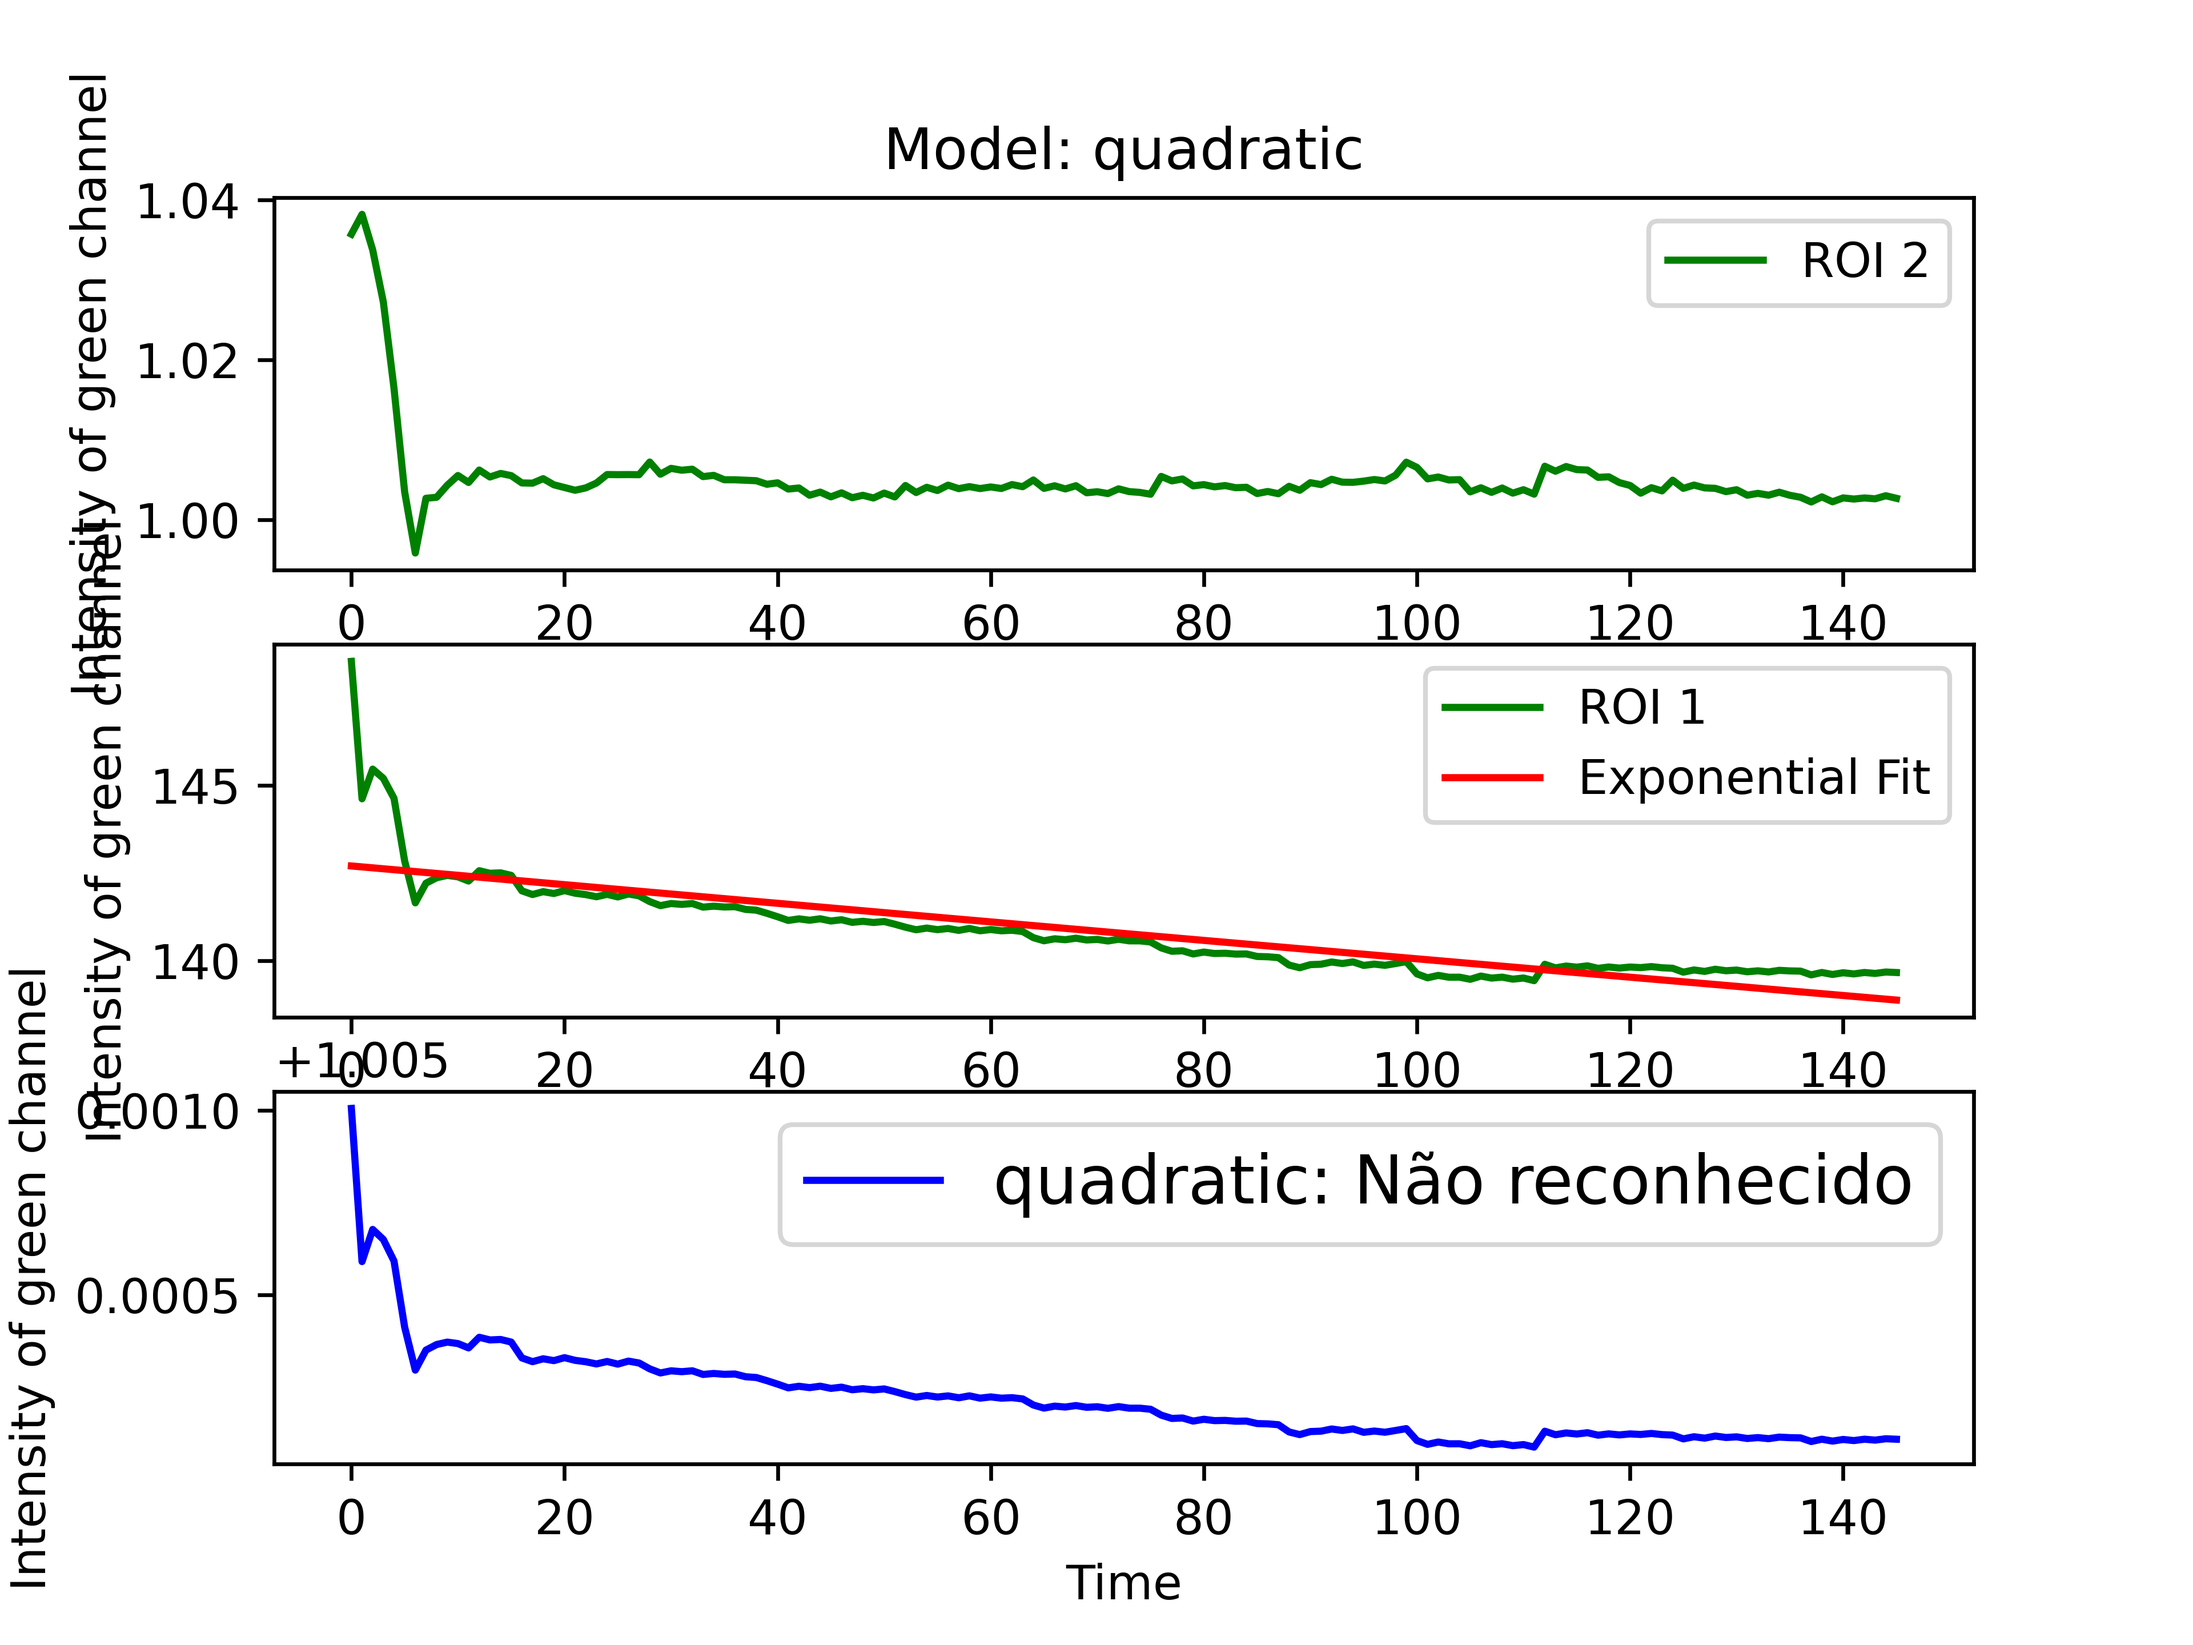
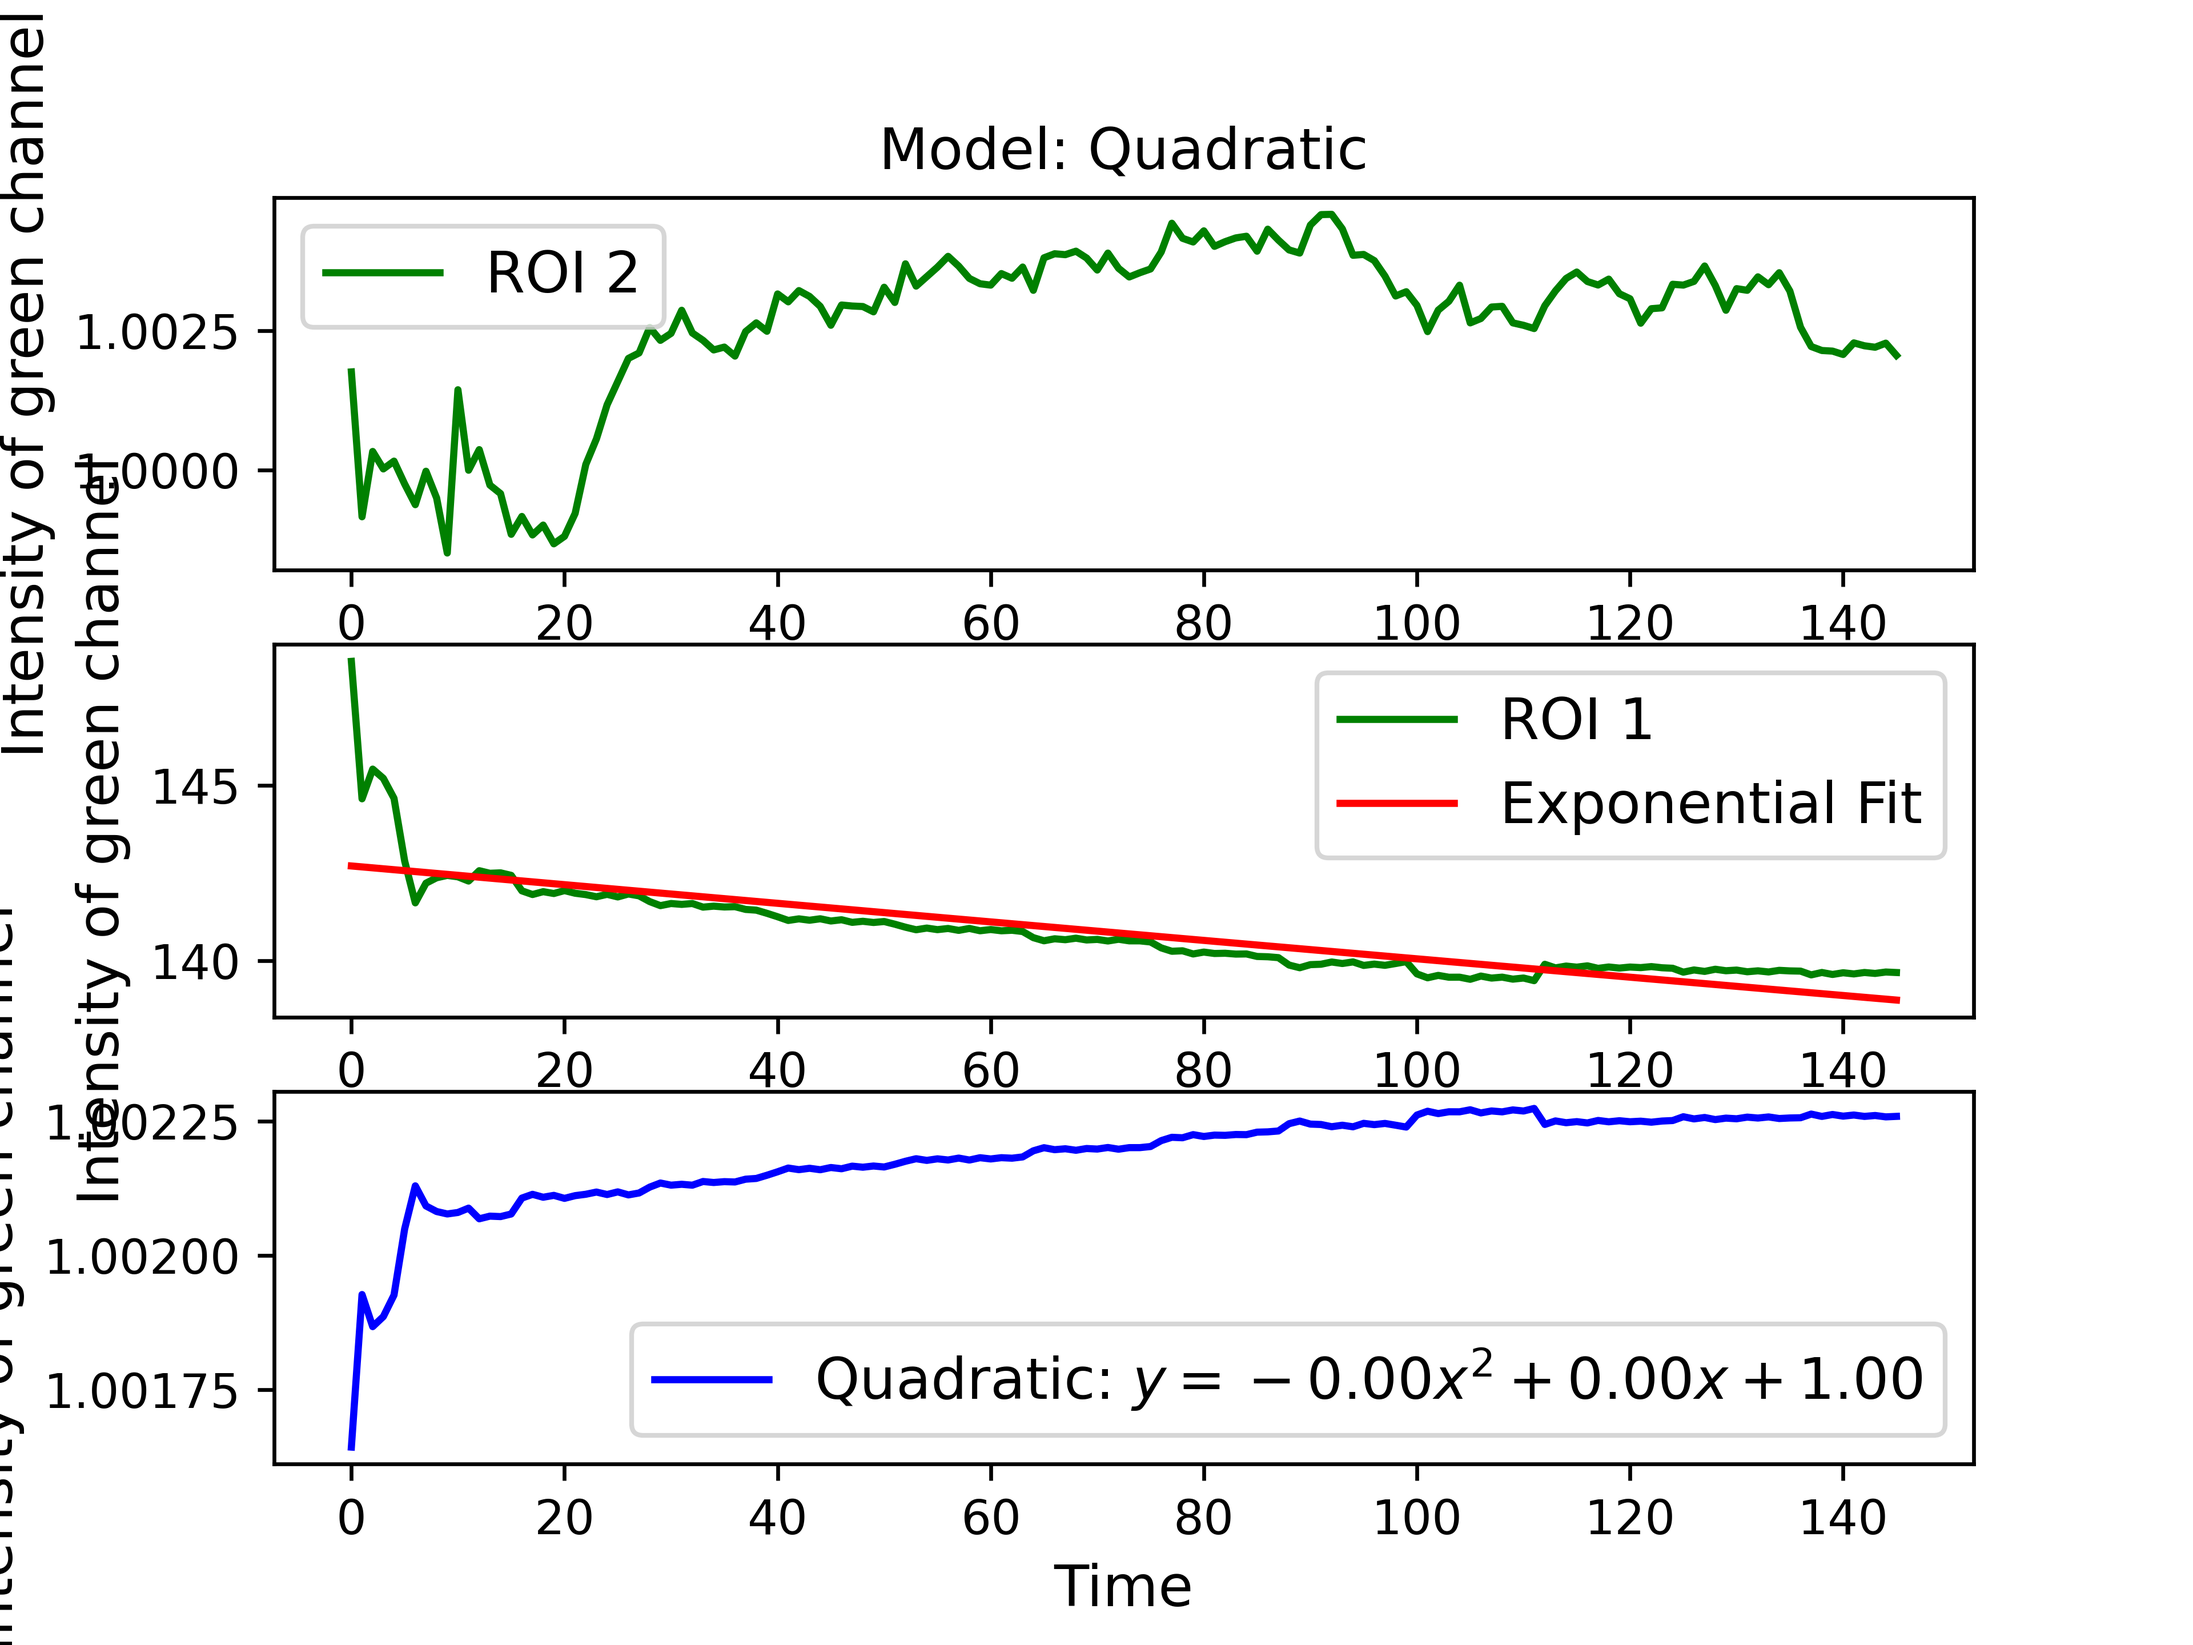
metodo para evitar parametros com zero

diff --git a/CorrectLightUnpolROIsAdjustpCRT_nfuncv3.py b/CorrectLightUnpolROIsAdjustpCRT_nfuncv3.py
@@ -67,28 +67,35 @@ def plot_and_save_model(model_name, params, RoiGreen1, fitted_curve1, fitted_cur
     plt.subplot(311)
     plt.plot(RoiGreen2, label="ROI 2", color='green')
     plt.title(f"Model: {model_name}")
-    plt.xlabel("Time")
-    plt.ylabel("Intensity of green channel")
-    plt.legend()
+    plt.xlabel("Time",fontsize=12)
+    plt.ylabel("Intensity of green channel",fontsize=12)
+    plt.legend(fontsize=12)
 
     # Subplot 2: ROI 1 vs Fit Exponencial
     plt.subplot(312)
     plt.plot(RoiGreen1, label="ROI 1", color='green')
     plt.plot(fitted_curve1_exp, label="Exponential Fit", color='red')
-    plt.xlabel("Time")
-    plt.ylabel("Intensity of green channel")
-    plt.legend()
+    plt.xlabel("Time",fontsize=12)
+    plt.ylabel("Intensity of green channel",fontsize=12)
+    plt.legend(fontsize=12)
 
     # Subplot 3: Fitted Curve and Equation
     plt.subplot(313)
     plt.plot(fitted_curve1, label=eq, color='blue')
-    plt.xlabel("Time")
-    plt.ylabel("Intensity of green channel")
-    plt.legend(fontsize=14)
+    plt.xlabel("Time",fontsize=12)
+    plt.ylabel("Intensity of green channel",fontsize=12)
+    plt.legend(fontsize=12)
 
     # Salvando o gráfico em um arquivo
     plt.savefig(output_filename, dpi=600)
     plt.close()
+
+
+# Função para garantir que nenhum parâmetro seja igual a zero
+def avoid_zero(param):
+    while param == 0:
+        param = np.random.uniform(0.1, 5.0)  # Defina o intervalo de valores conforme necessário
+    return param
 
 
 # Verifica o caminho do vídeo
@@ -165,7 +172,7 @@ roi3 = (x_j, y_j, w_j, h_j)
 cap.set(cv.CAP_PROP_POS_FRAMES, 0)
 
 # Listas para armazenar intensidades e timestamps
-RoiRed, RoiGreen, RoiBlue,Roi2, time_stamps = [], [], [], [],[]
+RoiRed, RoiGreen, RoiBlue,Roi2,Roi3, time_stamps = [], [], [], [],[],[]
 
 # Processa o vídeo frame a frame para capturar os valores das ROIs
 while True:
@@ -180,6 +187,7 @@ while True:
     
     RoiGreen.append(np.mean(roi1_frame[:, :, 1]))
     Roi2.append(np.mean(roi2_frame[:, :, 1]))
+    Roi3.append(np.mean(roi3_frame[:, :, 1]))
     
     time_stamps.append(frame_count / fps)
     frame_count += 1
@@ -187,6 +195,9 @@ while True:
 cap.release()
 
 RoiGreen = np.array(RoiGreen)
+Roi2 = np.array(Roi2)
+Roi3 = np.array(Roi3)
+
 time_stamps = np.array(time_stamps)
 
 # Normaliza a Curva 2 pela média dos primeiros 40 pontos
@@ -194,7 +205,7 @@ normalization_factor = np.mean(Roi2[:40])
 if normalization_factor == 0:
     print("Erro: O fator de normalização é zero.")
 else:
-    normalized_curve2 = Roi2 / normalization_factor
+    normalized_curve2 = Roi2 / Roi3
 
 
 
@@ -226,7 +237,7 @@ def exp_decay(x, a, b, c):
 models = {
     "Exponential": exponential,
     "Linear": linear,
-    "quadratic" :quadratic,
+    "Quadratic" :quadratic,
 }
 
 def bestfit_models(RoiGreen1, RoiGreen2, models, max_attempts=400):
@@ -253,14 +264,22 @@ def bestfit_models(RoiGreen1, RoiGreen2, models, max_attempts=400):
             attempt += 1
             try:
                 # Parâmetros de inicialização específicos para cada modelo
-                if model_name == "exponential":
-                    a_init, b_init, c_init = np.random.uniform(0.5, 1.5), np.random.uniform(0.5, 1.5), np.random.uniform(0.0, 5.0)
-                elif model_name == "linear":
-                    a_init, b_init, c_init = np.random.uniform(0.5, 2.0), np.random.uniform(0.1, 1.0), np.random.uniform(0.0, 5.0)
-                elif model_name == "quadratic":
-                    a_init, b_init, c_init = np.random.uniform(0.5, 1.5), np.random.uniform(1.0, 2.0), np.random.uniform(0.0, 5.0)
+                if model_name == "Exponential":
+                    a_init = avoid_zero(np.random.uniform(0.5, 1.5))
+                    b_init = avoid_zero(np.random.uniform(0.5, 1.5))
+                    c_init = avoid_zero(np.random.uniform(0.1, 5.0))
+                elif model_name == "Linear":
+                    a_init = avoid_zero(np.random.uniform(0.5, 2.0))
+                    b_init = avoid_zero(np.random.uniform(0.1, 1.0))
+                    c_init = avoid_zero(np.random.uniform(0.1, 5.0))
+                elif model_name == "Quadratic":
+                    a_init = avoid_zero(np.random.uniform(0.5, 1.5))
+                    b_init = avoid_zero(np.random.uniform(1.0, 2.0))
+                    c_init = avoid_zero(np.random.uniform(0.1, 5.0))
                 else:
-                    a_init, b_init, c_init = np.random.uniform(0.5, 1.5), np.random.uniform(0.5, 1.5), np.random.uniform(0.0, 5.0)
+                    a_init = avoid_zero(np.random.uniform(0.5, 1.5))
+                    b_init = avoid_zero(np.random.uniform(0.5, 1.5))
+                    c_init = avoid_zero(np.random.uniform(0.1, 5.0))
 
                 # Ajuste o modelo aos dados RoiGreen2
                 params, _ = curve_fit(model, np.arange(len(RoiGreen2)), RoiGreen2, p0=[a_init, b_init, c_init])
@@ -278,7 +297,7 @@ def bestfit_models(RoiGreen1, RoiGreen2, models, max_attempts=400):
                     c_init_curv1 = np.median(fitted_curve1) 
                     params_exp, _ = curve_fit(exponential, np.arange(len(RoiGreen1)), RoiGreen1, p0=[a_init_curv1, b_init_curv1, c_init_curv1])
                     fitted_curve1_exp = exponential(np.arange(len(RoiGreen1)), *params_exp)  # Garanta que fitted_curve1_exp seja inicializado
-                    
+                   
                     residuals = RoiGreen1 - fitted_curve1_exp
                     ss_res = np.sum(residuals**2)
                     ss_tot = np.sum((RoiGreen1 - np.mean(RoiGreen1))**2)
@@ -294,16 +313,24 @@ def bestfit_models(RoiGreen1, RoiGreen2, models, max_attempts=400):
                         best_fitted_curve1 = fitted_curve2
                     else:
                         print(f"Tentativa {attempt} do modelo {model_name} com R² = {r_squared:.4f} falhou. Tentando novamente...")
+
                 else:
                     print(f"Erro {error:.4f} do modelo {model_name} não é suficiente. Tentando novos parâmetros...")
 
                     # Caso o erro não seja suficientemente baixo, calcule novos parâmetros
-                    if model_name == "exponential":
-                        a_init, b_init, c_init = np.random.uniform(0.5, 2.0), np.random.uniform(0.5, 2.0), np.random.uniform(0.0, 5.0)
-                    elif model_name == "linear":
-                        a_init, b_init, c_init = np.random.uniform(0.5, 2.0), np.random.uniform(0.1, 1.0), np.random.uniform(0.0, 5.0)
-                    elif model_name == "quadratic":
-                        a_init, b_init, c_init = np.random.uniform(0.5, 1.5), np.random.uniform(1.0, 2.0), np.random.uniform(0.0, 5.0)
+                    if model_name == "Exponential":
+                        a_init = avoid_zero(np.random.uniform(0.5, 2.0))
+                        b_init = avoid_zero(np.random.uniform(0.5, 2.0))
+                        c_init = avoid_zero(np.random.uniform(0.1, 5.0))
+                    elif model_name == "Linear":
+                        a_init = avoid_zero(np.random.uniform(0.5, 2.0))
+                        b_init = avoid_zero(np.random.uniform(0.1, 1.0))
+                        c_init = avoid_zero(np.random.uniform(0.1, 5.0))
+                    elif model_name == "Quadratic":
+                        a_init = avoid_zero(np.random.uniform(0.5, 1.5))
+                        b_init = avoid_zero(np.random.uniform(1.0, 2.0))
+                        c_init = avoid_zero(np.random.uniform(0.1, 5.0))
+
                     params, _ = curve_fit(model, np.arange(len(RoiGreen2)), RoiGreen2, p0=[a_init, b_init, c_init])
                     fitted_curve2 = model(np.arange(len(RoiGreen2)), *params)
                     error = np.mean(np.abs(fitted_curve2 - 1))
@@ -326,7 +353,6 @@ def bestfit_models(RoiGreen1, RoiGreen2, models, max_attempts=400):
             plot_and_save_model(model_name, params, RoiGreen1, fitted_curve1, fitted_curve1_exp, RoiGreen2, r_squared, output_filename,)
 
     return best_model, best_params, best_r2, best_fitted_curve1
-
 
 
 
